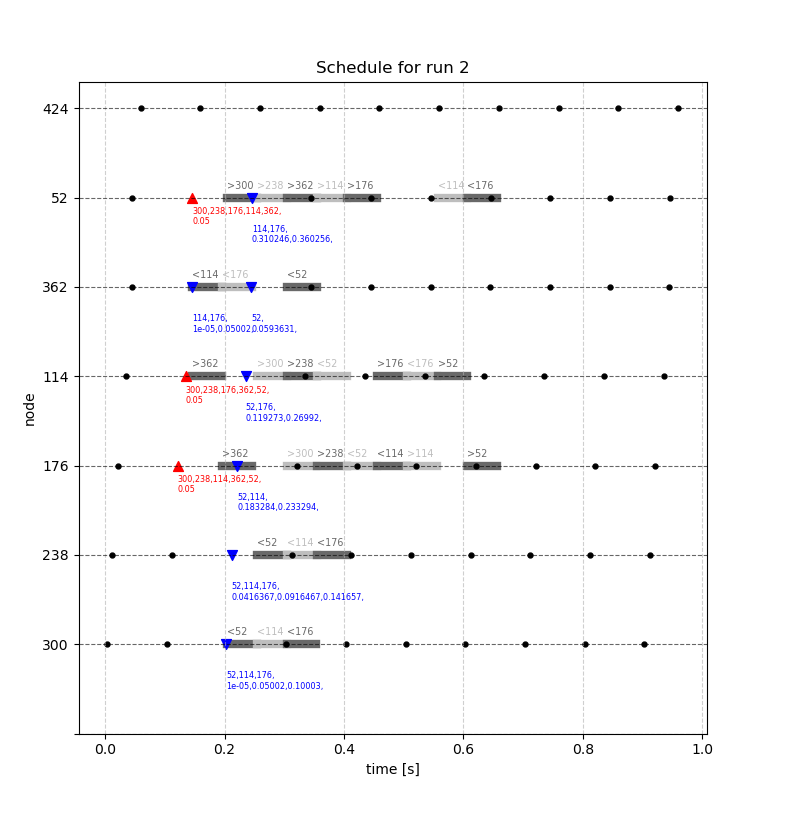
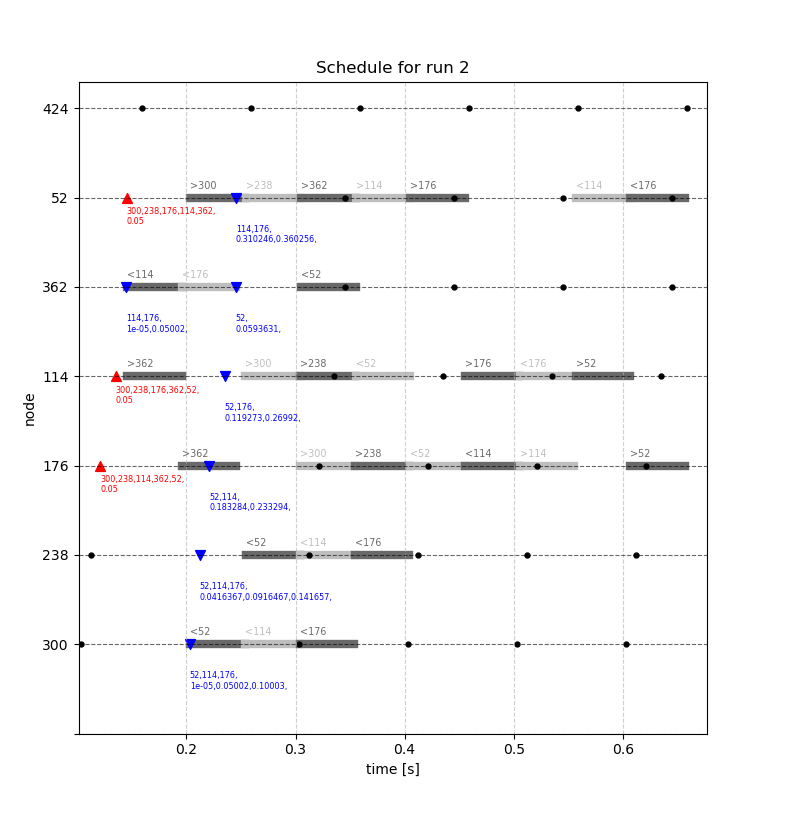
Schedule xlim automatic

diff --git a/schedule.py b/schedule.py
@@ -10,6 +10,8 @@ scalars = results[results.type=='scalar']
 
 beacons = {}
 transmissions = {}
+first_time = {}
+last_time = {}
 
 for row in scalars.itertuples():
     # Get module
@@ -24,6 +26,8 @@ for row in scalars.itertuples():
     if run not in beacons:
         beacons[run] = {}
         transmissions[run] = {}
+        first_time[run] = None
+        last_time[run] = 0.0
 
     if tp=="beacon":
         beacon = row.name.split("_")[2]
@@ -34,6 +38,8 @@ for row in scalars.itertuples():
         elif beacon_type=="RTS":
             beacon_rx = beacon.split(" ")[9]
             beacon_time = beacon.split(" ")[11]
+            if first_time[run] is None:
+                first_time[run] = time
         else:
             beacon_rx = beacon.split(" ")[9]
             beacon_time = beacon.split(" ")[11]
@@ -63,6 +69,8 @@ for row in scalars.itertuples():
 
         transmissions[run][module][0] += [[float(time), float(time)+float(duration)]]
         transmissions[run][module][1] += [s]
+
+        last_time[run] = float(time) + float(duration)
 
 
 beacons_bkp = beacons
@@ -122,5 +130,7 @@ for tri in range(len(beacons_bkp)):
     ax.set_ylabel("node")
 
     ax.set_title('Schedule for run %s'%tri);
+
+    ax.set_xlim([first_time[tri]-0.02, last_time[tri]+0.02])
 
     plt.show()
